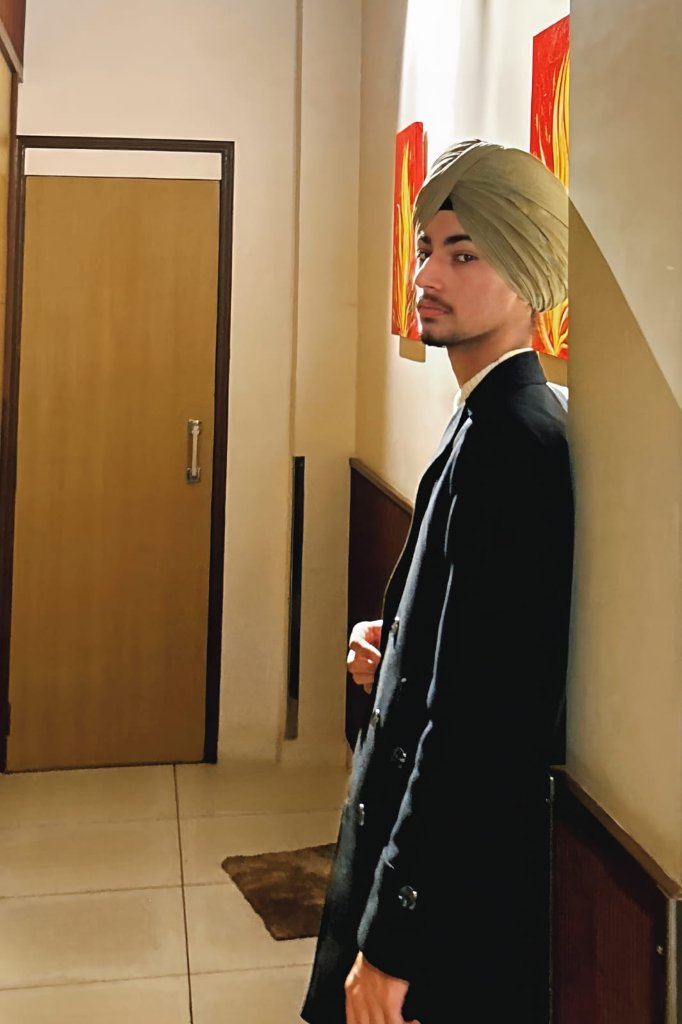
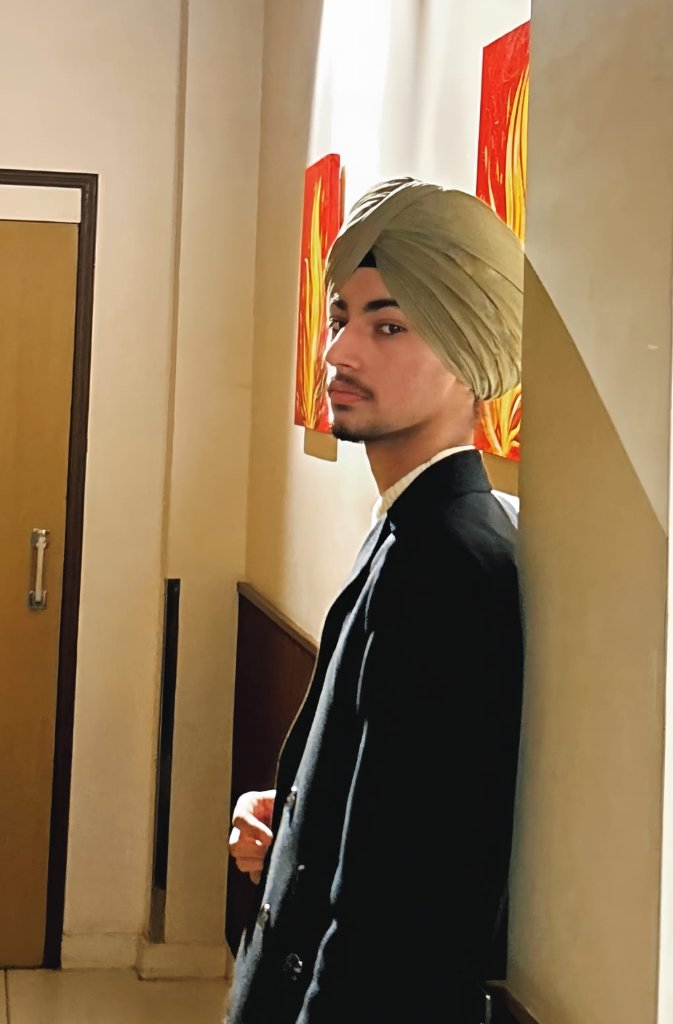
feat: update portrait photo in hero circular cutout and contact card with object-top framing

diff --git a/index.html b/index.html
@@ -268,7 +268,7 @@
             <div class="relative inline-flex items-center justify-center shrink-0">
               <div class="absolute -inset-2 md:-inset-3 rounded-full bg-gradient-to-tr from-sky-500/25 via-cyan-400/35 to-white/20 blur-lg opacity-70 group-hover:opacity-100 transition-opacity duration-700 pointer-events-none"></div>
               <div class="w-16 h-16 sm:w-20 sm:h-20 md:w-28 md:h-28 lg:w-36 lg:h-36 xl:w-44 xl:h-44 overflow-hidden rounded-full shrink-0 border-2 border-white/40 relative shadow-2xl group cursor-pointer z-10">
-                <img src="assets/khushman.jpg" alt="Khushman Gill" class="w-full h-full object-cover grayscale group-hover:grayscale-0 group-hover:scale-105 transition-all duration-700">
+                <img src="assets/khushman.jpg" alt="Khushman Gill" class="w-full h-full object-cover object-top grayscale group-hover:grayscale-0 group-hover:scale-105 transition-all duration-700">
               </div>
             </div>
 
@@ -766,7 +766,7 @@
             <!-- Header: Portrait thumbnail & Giant Contact Title -->
             <div class="mb-8 lg:mb-10 flex flex-col md:flex-row md:items-end gap-6 md:gap-8">
               <div class="overflow-hidden rounded-xl w-28 h-28 md:w-36 md:h-36 shrink-0 border border-black/15 shadow-md">
-                <img src="assets/khushman.jpg" alt="Khushman Gill" class="w-full h-full object-cover">
+                <img src="assets/khushman.jpg" alt="Khushman Gill" class="w-full h-full object-cover object-top">
               </div>
               <h2 class="font-serif text-5xl sm:text-6xl md:text-7xl lg:text-8xl font-normal leading-[0.9] tracking-tight uppercase flex items-center gap-3 flex-wrap">
                 <span>Contact</span>
